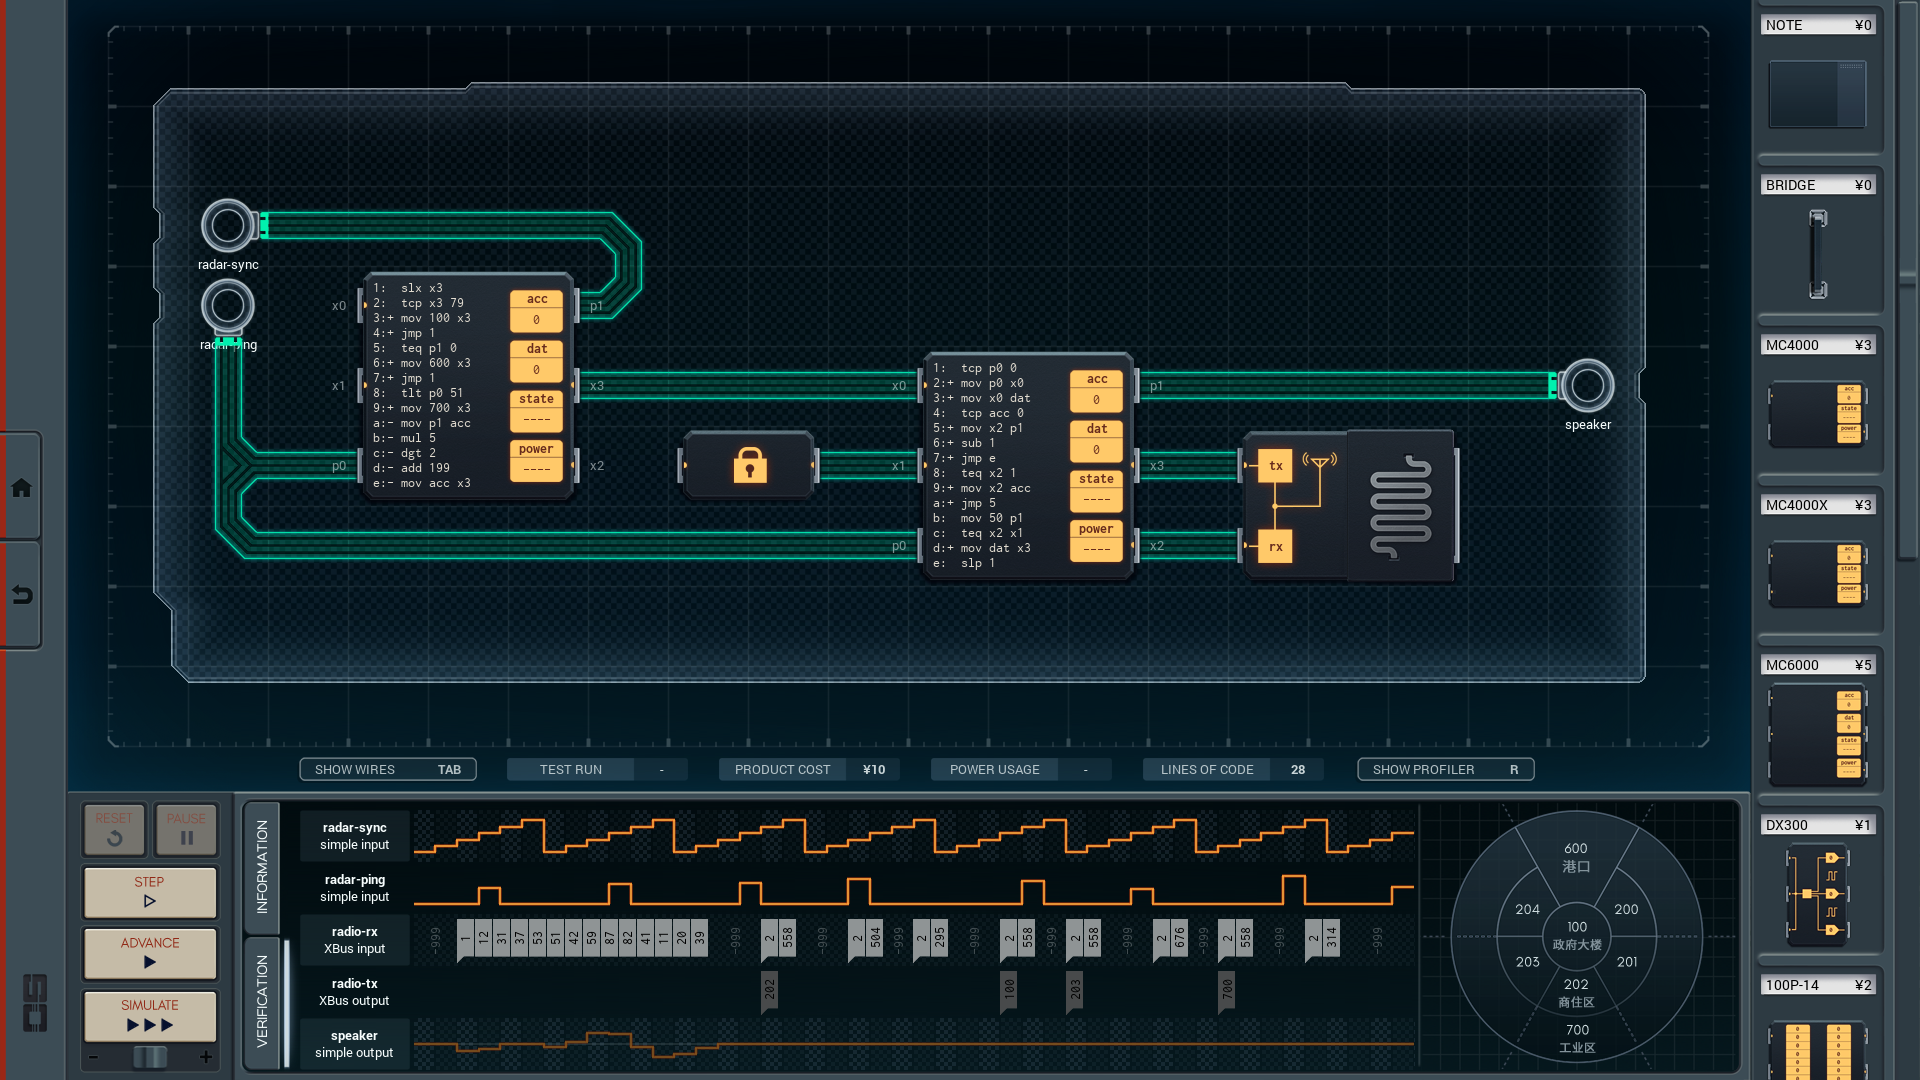
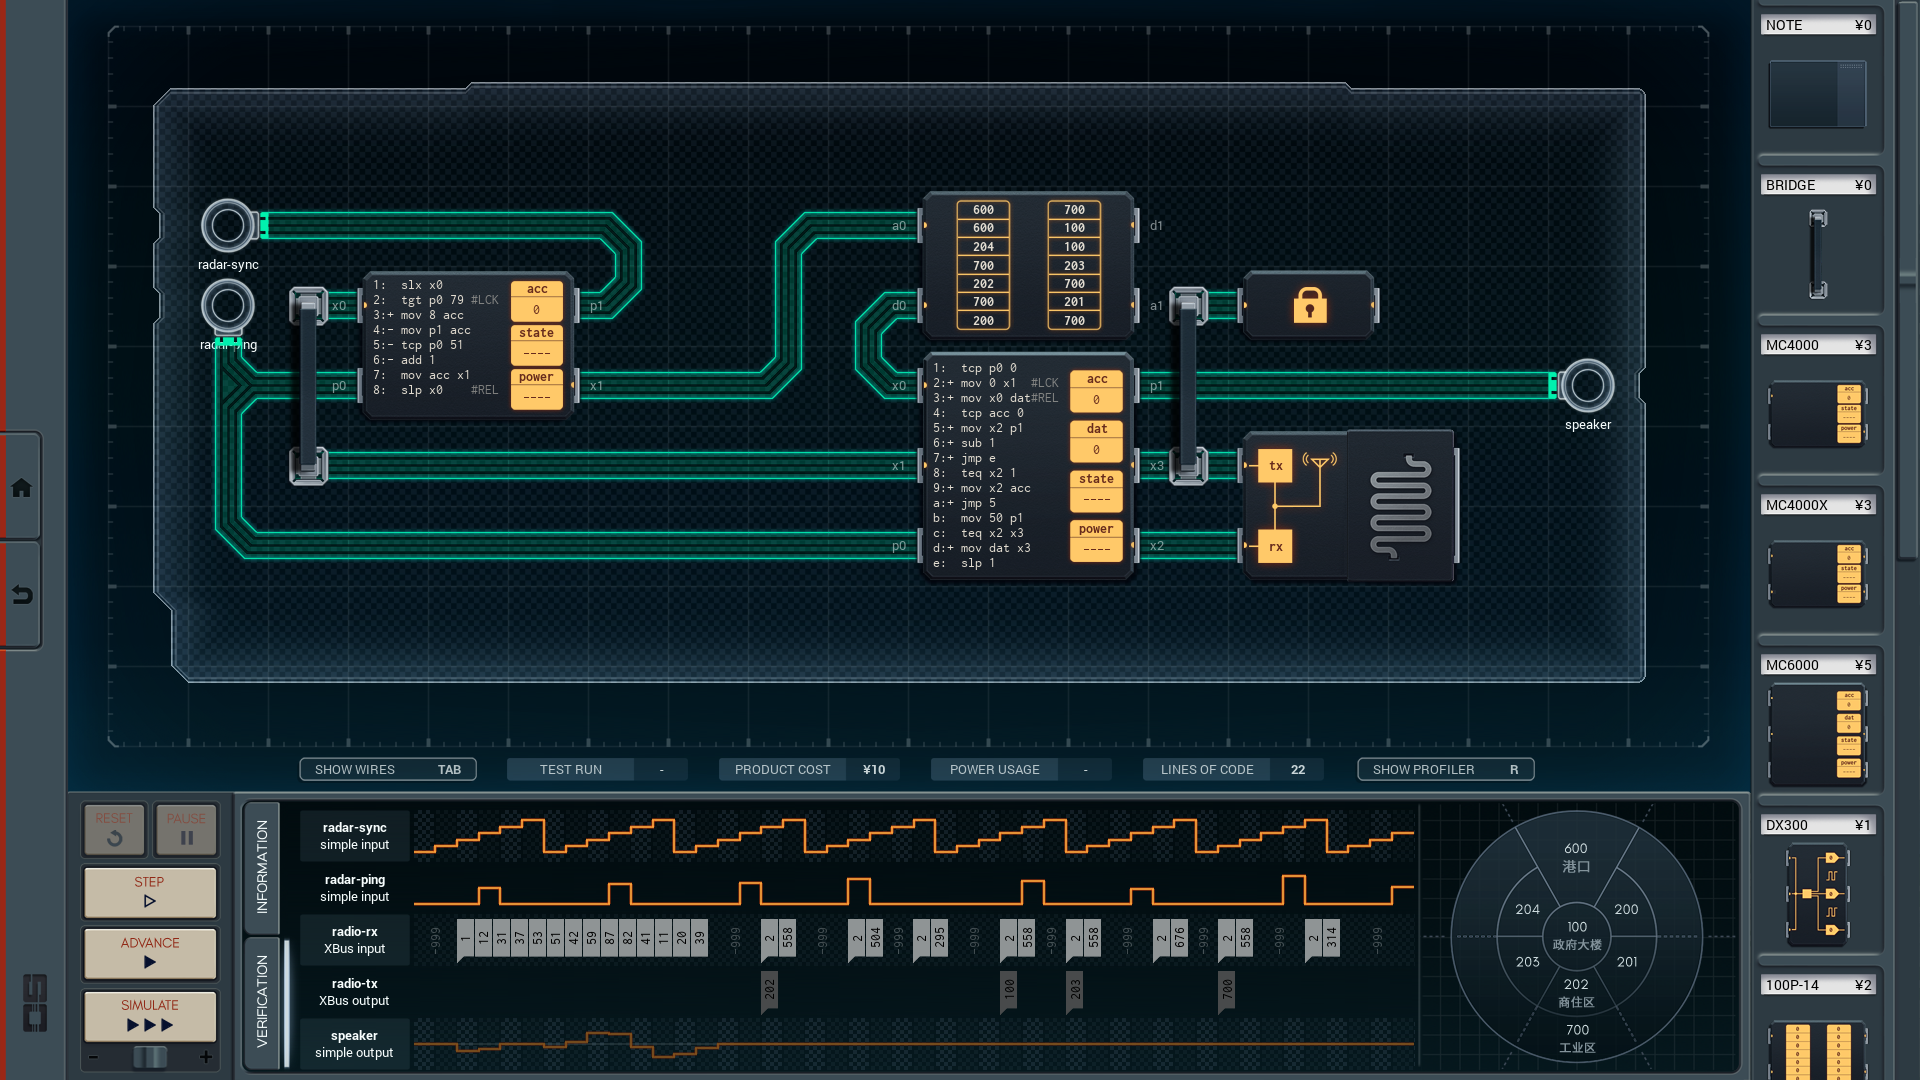
2023/05/11 Optimized the min cost solution for Safetynet Tracking Badge
[BEF] 10C / 365P / 28L
[AFT] 10C / 351P / 22L

Changed region(s): [[0.0938, 0.1528, 0.7188, 0.4583]]

diff --git a/031-safetynet-tracking-badge/README.md b/031-safetynet-tracking-badge/README.md
@@ -1,4 +1,4 @@
-10/365/28 (MIN COST) SOLUTION
+10/351/22 (MIN COST) SOLUTION
 -----------------------------
 
 ![screenshot0](https://github.com/shiawasenahikari/Shenzhen-IO-Solutions/blob/master/031-safetynet-tracking-badge/screenshot0.png)
